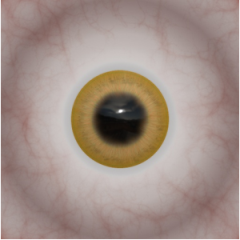
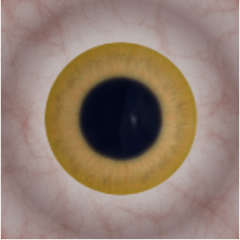
Refactor: Update eye deformation calculations, enhance eyelid configuration, and improve gaze tracking logic.  added structure for action/speech/eye/sound sequencing

diff --git a/sequencers/eye_channels.py b/sequencers/eye_channels.py
@@ -1,0 +1,85 @@
+import asyncio
+from abc import ABC, abstractmethod
+
+from eyes.eye_animator    import EyeAnimator
+from vision.face_tracking import FaceTracker
+from .gaze_override import GazeOverride
+from typing import Protocol, List
+
+class ChannelSequence(Protocol):
+    """Anything with an .update(dt: float) and a .finished: bool."""
+    finished: bool
+    def update(self, dt: float) -> None: ...
+
+
+class BaseChannel(ABC):
+    @abstractmethod
+    def update(self, dt: float):
+        pass
+
+
+class GazeChannel(BaseChannel):
+    def __init__(self, animator: EyeAnimator, tracker: FaceTracker) -> None:
+        self.animator   = animator
+        self.tracker   = tracker
+        self._overrides: List[ChannelSequence] = []
+        # One-off gaze overrides queue:
+        self._overrides = []
+        # Kick off your battle-tested face-tracker:
+        self._task = asyncio.create_task(self.tracker.track())
+
+    def trigger_override(self, x: float, y: float, duration: float = 1.0) -> None:
+        self._overrides.append(GazeOverride(self.animator, x, y, duration))
+
+    def update(self, dt: float) -> None:
+        if self._overrides:
+            seq = self._overrides[0]
+            seq.update(dt)            # calls animator.direct_gaze(...)
+            if seq.finished:
+                self._overrides.pop(0)
+        # else: FaceTracker.track() is still running in the background
+
+
+class ExpressionChannel(BaseChannel):
+    def __init__(self, animator: EyeAnimator) -> None:
+        self.animator = animator
+        self.mood = None
+
+    def set_mood(self, mood: str):
+        self.mood = mood
+        # kick off the async lid morph
+        asyncio.create_task(self.animator.smooth_transition_expression(mood))
+
+    def clear_mood(self):
+        self.mood = None
+
+    def update(self, dt: float):
+        # transition_expression handles all the work; nothing per-tick here
+        pass
+
+
+class BlinkChannel(BaseChannel):
+    def __init__(self, animator: EyeAnimator) -> None:
+        # let EyeAnimator drive its own forever loop
+        self._task = asyncio.create_task(animator.idle_blink_loop())
+
+    def update(self, dt: float):
+        # blink completely internal—no per-frame code needed
+        pass
+
+
+class ActionChannel(BaseChannel):
+    def __init__(self) -> None:
+        # now VS Code knows queue holds ChannelSequence objects
+        self.queue: List[ChannelSequence] = []
+
+    def trigger(self, seq: ChannelSequence) -> None:
+        self.queue.append(seq)
+
+    def update(self, dt: float) -> None:
+        if not self.queue:
+            return
+        current = self.queue[0]
+        current.update(dt)           # no more “wtf—.update() doesn’t exist”
+        if current.finished:
+            self.queue.pop(0)        # and .finished is known too

diff --git a/sequence_test_01.py b/sequence_test_01.py
@@ -1,0 +1,60 @@
+# test_main.py
+import asyncio
+import time
+
+from sequencers.eye_channels import GazeChannel, ExpressionChannel, BlinkChannel, ActionChannel
+from sequencers.eye_behaviours  import EyeBehaviorManager
+from eyes.eye_animator import EyeAnimator
+from vision.face_tracking    import FaceTracker
+from eyes.eye_loader   import load_eye_profile
+
+# === replace this with one of your real ActionSequence classes ===
+class DummySequence:
+    def __init__(self, animator):
+        self.animator = animator
+        self.duration = 1.0
+        self.elapsed = 0.0
+        self.finished = False
+    
+    def update(self, dt):
+        self.elapsed += dt
+        # here you might call animator.direct_gaze or set_expression …
+        if self.elapsed >= self.duration:
+            self.finished = True
+
+
+async def main():
+    profile  = load_eye_profile("real_owl")
+    animator = EyeAnimator(profile)
+    tracker  = FaceTracker(animator)
+    gaze   = GazeChannel(animator, tracker)
+    expr   = ExpressionChannel(animator)
+    action = ActionChannel()
+    _ = BlinkChannel(animator)    
+    manager = EyeBehaviorManager(gaze, expr, action)
+
+    # start your blink loop (runs forever in background).  _ = BlinkChannel(animator)
+    # BlinkChannel’s __init__ already kicked off animator.idle_blink_loop()
+
+    # Example: set an initial expression
+    expr.set_mood("happy")
+    # Schedule a dummy action 2 seconds in
+    asyncio.get_event_loop().call_later(
+        2.0,
+        lambda: action.trigger(DummySequence(animator))
+    )
+
+    prev = time.time()
+    try:
+        while True:
+            now = time.time()
+            dt  = now - prev
+            prev = now
+
+            manager.update(dt)
+            await asyncio.sleep(0.016)   # ~60 fps tick
+    except KeyboardInterrupt:
+        print("Shutting down…")
+
+if __name__ == "__main__":
+    asyncio.run(main())

diff --git a/test_eye_animator.py b/test_eye_animator.py
@@ -6,7 +6,7 @@ from eyes.core.blink_engine import BlinkEngine
 async def main():
     print("Halimedes Sanity Check: INITIATING")
     try:
-        profile = load_eye_profile("real_owl")
+        profile = load_eye_profile("vector03")
         hal = EyeAnimator(profile)
         hal.blinker = BlinkEngine(hal.drawer)
     except Exception as e:
@@ -15,26 +15,37 @@ async def main():
 
     print("DRAW TEST: Centered eye, no expression")
     hal.drawer.gaze_cache.clear()
+    hal.set_expression("skeptical")
     hal.draw_gaze(10, 10, 1.0)
     await asyncio.sleep(1)           # ← non-blocking
-    print("Profile loaded, animator online.")
-    # start blinking in the background
-    blink_task = asyncio.create_task(hal.idle_blink_loop())
 
-    for mood in ["test", "happy","sad","angry","focused","skeptical","surprised","asleep","neutral"]:
-        print(f"Setting expression: {mood}")
-        try:
-            await hal.smooth_transition_expression(mood)
-            await asyncio.sleep(2)
-            for mode in ["center","left","center","right","center","up","center","down","center","wander"]:
-                print(f"Gaze mode: {mode}")
-                hal.apply_gaze_mode(mode)
-                await asyncio.sleep(1)
-        except Exception as e:
-            print(f"Expression '{mood}' failed: {e}")
-            break
+    for size in ["0.935", "0.94", "0.945", "0.95", "0.955", "0.96", "0.965", "0.97", "0.975", "0.98", "0.985", "0.99", "0.995", "1.0", "1.005", "1.01", "1.015", "1.02", "1.025"]:
+        size = float(size)              
+        print(f"Drawing gaze with size: {size}")
+        hal.drawer.gaze_cache.clear()
+        print(f"Pupil Size: {size}")
+        hal.draw_gaze(10, 10, size) 
+        await asyncio.sleep(2.5)  
+
+    await asyncio.sleep(1)           # ← non-blocking
+
+    # # start blinking in the background
+    # blink_task = asyncio.create_task(hal.idle_blink_loop())
+
+    # for mood in ["happy","sad","angry","focused","skeptical","surprised","asleep","neutral"]:
+    #     print(f"Setting expression: {mood}")
+    #     try:
+    #         await hal.smooth_transition_expression(mood)
+    #         await asyncio.sleep(2)
+    #         for mode in ["center","left","center","right","center","up","center","down","center","wander"]:
+    #             print(f"Gaze mode: {mode}")
+    #             hal.apply_gaze_mode(mode)
+    #             await asyncio.sleep(1)
+    #     except Exception as e:
+    #         print(f"Expression '{mood}' failed: {e}")
+    #         break
 
     print("Finished sanity pass. Hal is operational.")
-    blink_task.cancel()
+    # blink_task.cancel()
 if __name__ == "__main__":
     asyncio.run(main())

diff --git a/sequencers/behaviour_sequencer.py b/sequencers/behaviour_sequencer.py
@@ -1,0 +1,38 @@
+from typing import Protocol, Callable, Any
+
+
+class Subsystem(Protocol):
+    def update(self, dt: float) -> None: ...
+
+
+class BehaviorSequencer:
+    def __init__(
+        self,
+        subsystems: dict[str, Subsystem],      # <-- use Subsystem here
+    ) -> None:
+        self.subsystems = subsystems
+        self.timeline = []  # list of (time_offset, subsystem_key, action_callable)
+        self._clock = 0.0
+
+    def schedule(
+        self,
+        delay: float,
+        subsystem: str,
+        action: Callable[[Subsystem], Any],   # action gets passed a Subsystem
+    ) -> None:
+        self.timeline.append((delay, subsystem, action))
+        self.timeline.sort(key=lambda e: e[0])
+
+    def start(self) -> None:
+        self._clock = 0.0
+        self._pending = list(self.timeline)
+
+    def update(self, dt: float) -> None:
+        self._clock += dt
+        # dispatch everything whose time has come
+        while self._pending and self._pending[0][0] <= self._clock:
+            _, key, action = self._pending.pop(0)
+            action(self.subsystems[key])
+        # then update all subsystems each tick
+        for mgr in self.subsystems.values():
+            mgr.update(dt)       # VSCode now knows mgr has .update(dt)

diff --git a/sequencers/gaze_override.py b/sequencers/gaze_override.py
@@ -1,0 +1,30 @@
+# sequencers/gaze_override.py
+from eyes.eye_animator import EyeAnimator
+from typing import Protocol
+
+# Reuse your protocol so type‐checkers stay happy
+class ChannelSequence(Protocol):
+    finished: bool
+    def update(self, dt: float) -> None: ...
+
+class GazeOverride:
+    def __init__(
+        self,
+        animator: EyeAnimator,
+        x: float,
+        y: float,
+        duration: float = 1.0,
+    ) -> None:
+        self.animator = animator
+        self.x = x
+        self.y = y
+        self.duration = duration
+        self.elapsed = 0.0
+        self.finished = False
+
+    def update(self, dt: float) -> None:
+        # immediate jump — swap to smooth_gaze() if you want a transition
+        self.animator.direct_gaze(self.x, self.y)
+        self.elapsed += dt
+        if self.elapsed >= self.duration:
+            self.finished = True

diff --git a/sequencers/eye_behaviours.py b/sequencers/eye_behaviours.py
@@ -1,0 +1,25 @@
+# sequencers/eye_behaviours.py
+
+from sequencers.eye_channels import GazeChannel, ExpressionChannel, ActionChannel
+
+class EyeBehaviorManager:
+    def __init__(
+        self,
+        gaze: GazeChannel,
+        expr: ExpressionChannel,
+        action: ActionChannel,
+    ) -> None:
+        self.gaze   = gaze
+        self.expr   = expr
+        self.action = action
+
+    def update(self, dt: float) -> None:
+        if self.action.queue:        # VSCode now knows action is ActionChannel
+            self.action.update(dt)
+            return
+
+        if self.expr.mood:           # VSCode now knows expr is ExpressionChannel
+            self.expr.update(dt)
+            return
+
+        self.gaze.update(dt)         # and so on…

diff --git a/vision/face_tracking.py b/vision/face_tracking.py
@@ -23,7 +23,7 @@ class FaceTracker:
         centered = gaze_range / 2
         self.last_coords = (centered, centered)
 
-    def map_face_to_gaze(face_x, face_y):
+    def map_face_to_gaze(self, face_x, face_y):
         # clamp to your active detection window
         face_x = max(100, min(540, face_x))
         face_y = max(100, min(380, face_y))
@@ -69,7 +69,10 @@ class FaceTracker:
 
                 self.animator.smooth_gaze(x_off, y_off, pupil=pupil)
                 await asyncio.sleep(0.2)
-
+        except asyncio.CancelledError:
+            # (optional) clean up or just swallow
+            pass
+        
         finally:
             Vilib.camera_close()
 

diff --git a/eyes/core/eyelid_controller.py b/eyes/core/eyelid_controller.py
@@ -47,6 +47,10 @@ class EyelidController:
         neutral = expression_map.get("neutral", {})
         # ensure all four corners exist
         self.lids = {
+            "top":  neutral.get("lid_top",  36),
+            "bottom": neutral.get("lid_bottom", 40),
+            "left":  neutral.get("lid_left",  0),
+            "right": neutral.get("lid_right", 0),
             "top_left":  neutral.get("lid_top_left",  36),
             "top_right": neutral.get("lid_top_right", 36),
             "bottom_left":  neutral.get("lid_bottom_left",  40),

diff --git a/eyes/eye_animator.py b/eyes/eye_animator.py
@@ -23,10 +23,6 @@ class EyeAnimator:
         time.sleep(0.1)  # short SPI bus stabilization
         self.drawer.gaze_cache.clear()  # clear the gaze cache
         self.last_buf = None  # clear the last buffer for blinking
-
-    def finalize_init(self):
-        """After everything loaded, finalize internal modules."""
-        self.blinker = BlinkEngine(self.drawer)
         
     def draw_gaze(self, x, y, pupil=1.0):
         self.state.update({"x": x, "y": y, "pupil": pupil})

diff --git a/eyes/core/eye_deform.py b/eyes/core/eye_deform.py
@@ -111,7 +111,7 @@ class EyeDeformer:
         radius = np.sqrt(dx**2 + dy**2)
         angle = np.arctan2(dy, dx)
 
-        dilation = 1.0 / pupil_size
+        dilation = 1 / float(pupil_size)
         warped_radius = radius.copy()
 
         inner_mask = radius <= iris_radius

diff --git a/startup.py b/startup.py
@@ -33,7 +33,6 @@ from eyes.eye_loader import load_eye_profile
 eye_profile = load_eye_profile("vector03")
 eye_animator = EyeAnimator(eye_profile)
 time.sleep(1.4)
-eye_animator.finalize_init()
 template_manager = PromptTemplateManager(model_name="gemma3:1b")
 llm_client = LLMClientHandler(server_host=OLLAMALAPTOP)
 voiceprint_manager = VoiceRecognitionManager()